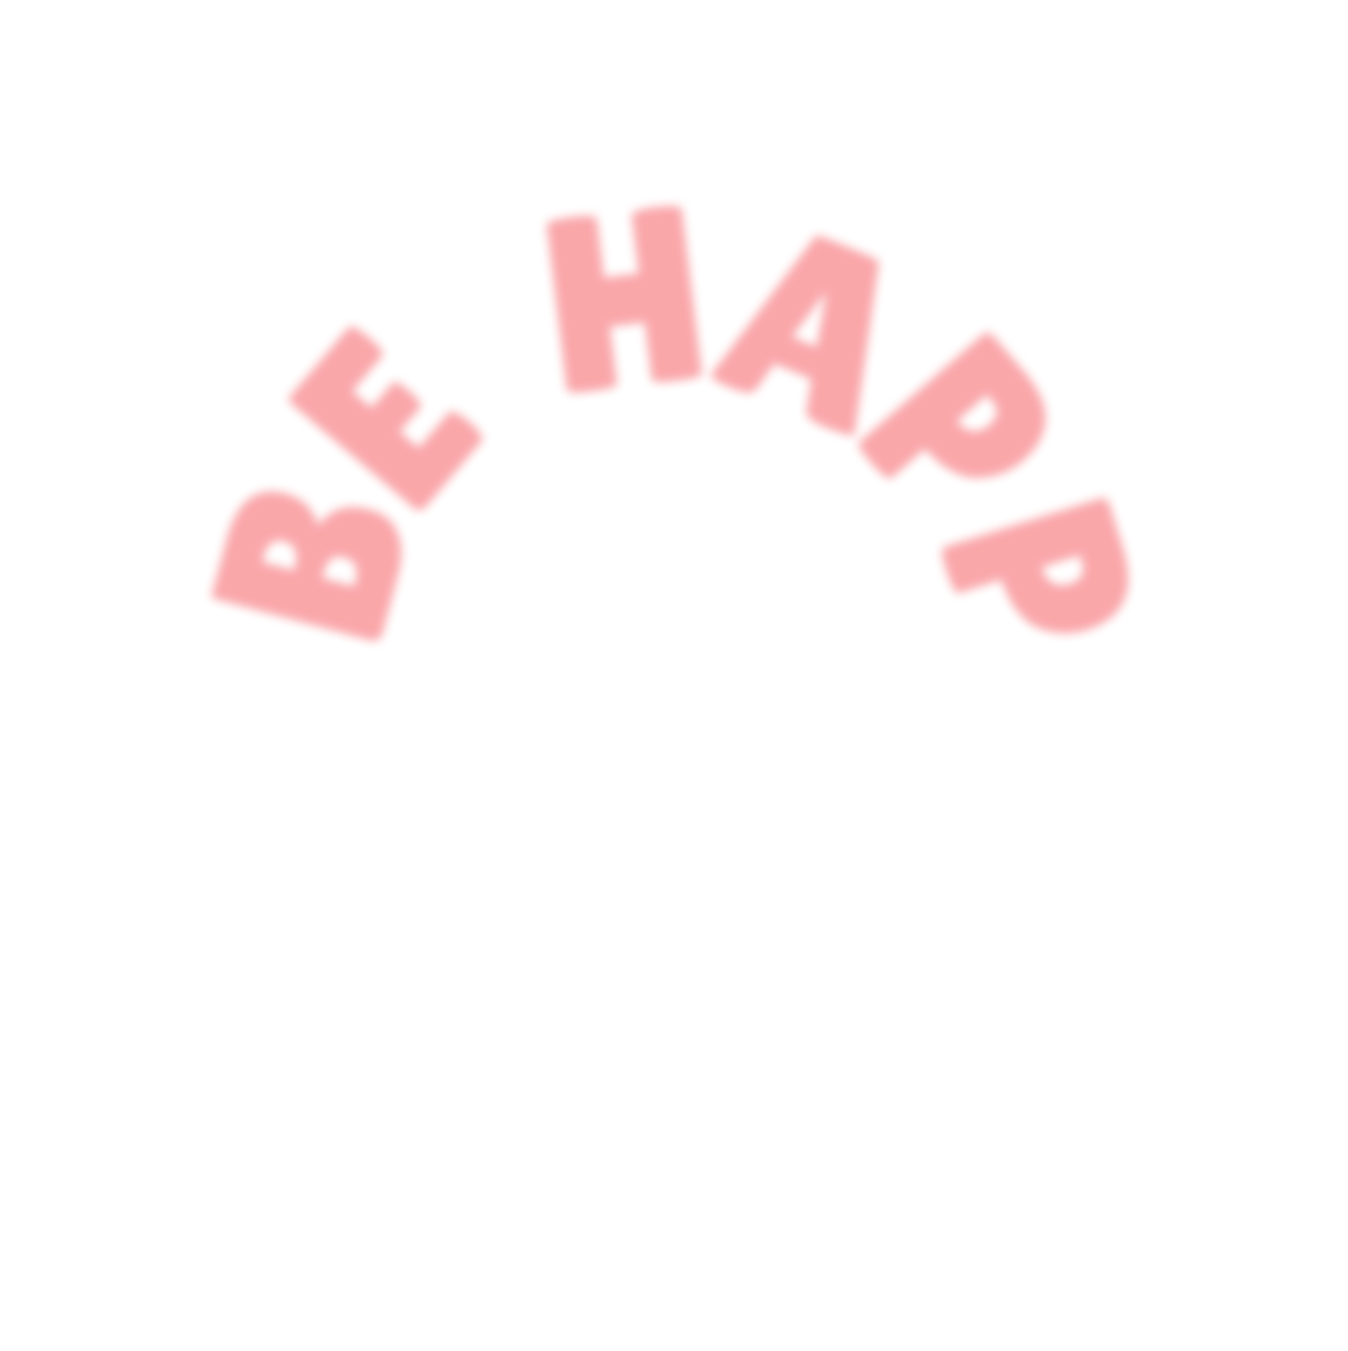
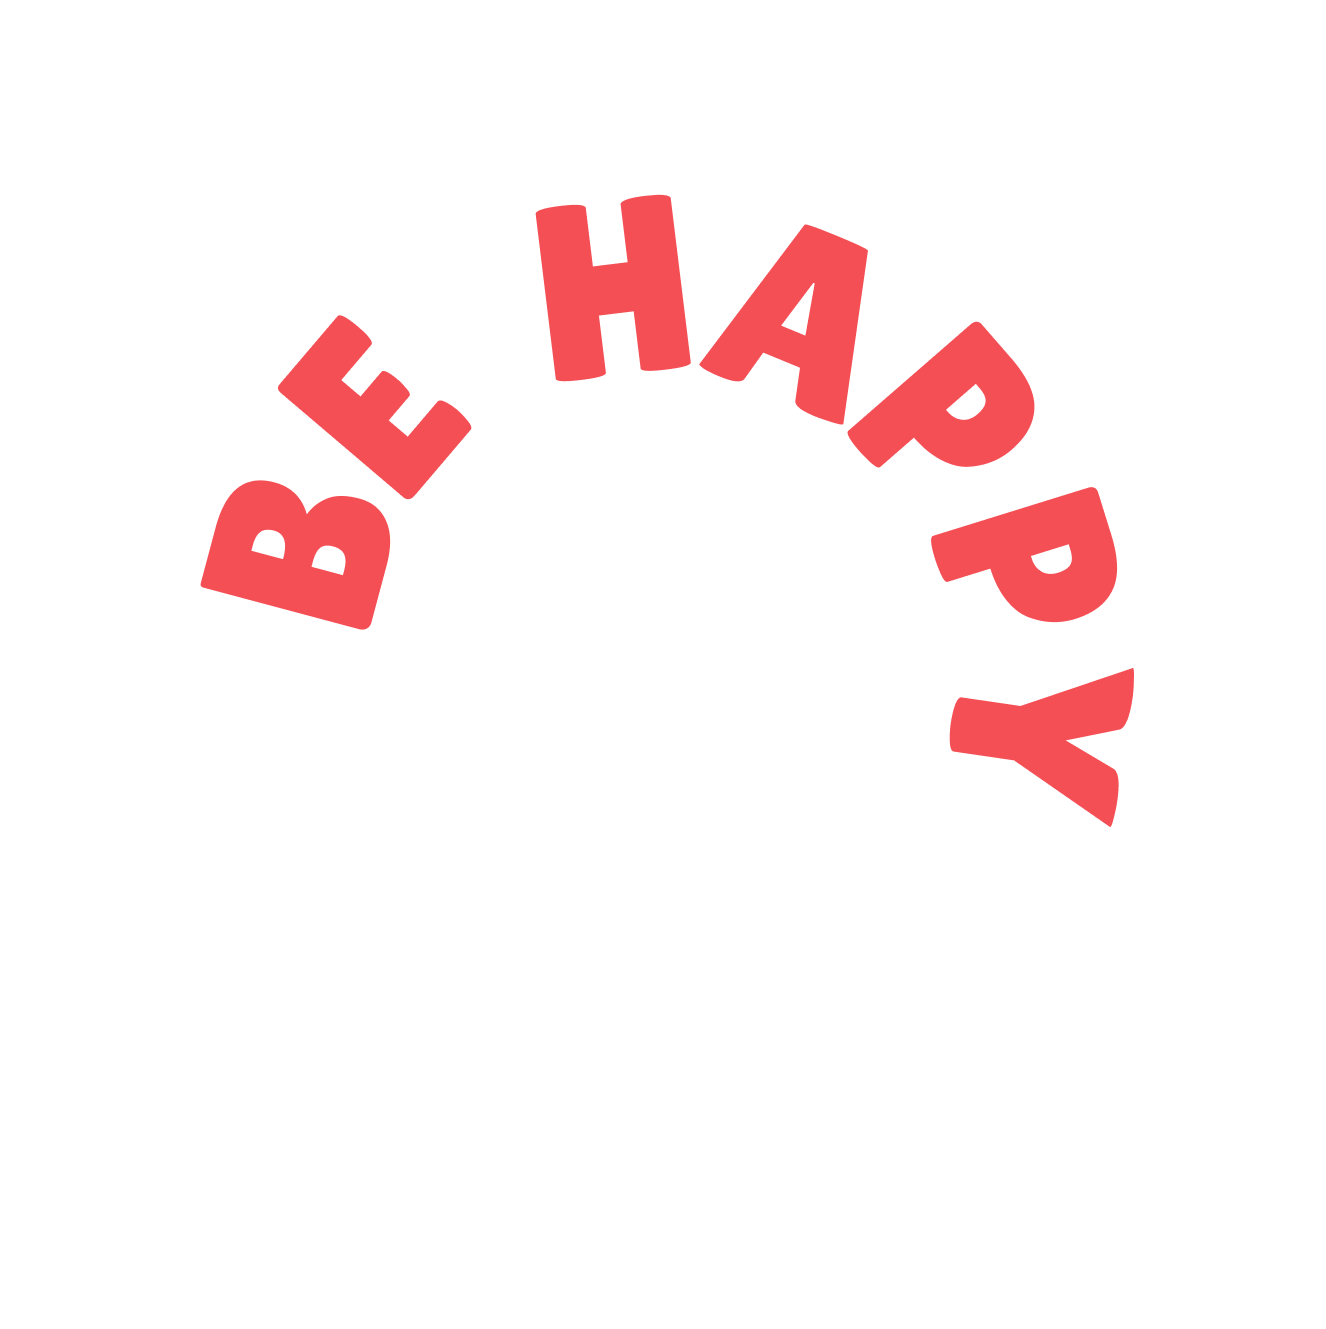
메뉴수정

Changed region(s): [[0.402, 0.1234, 0.8658, 0.4936], [0.1546, 0.216, 0.371, 0.4936], [0.7112, 0.4936, 0.8658, 0.617]]

diff --git a/css/menustyle/style.css b/css/menustyle/style.css
@@ -19,6 +19,13 @@
   font-weight: 700;
   font-display: swap;
 }
+@font-face {
+  font-family: "ChangwonDanggamAsak";
+  src: url("https://cdn.jsdelivr.net/gh/projectnoonnu/noonfonts_2108@1.1/CWDangamAsac-Bold.woff")
+    format("woff");
+  font-weight: normal;
+  font-display: swap;
+}
 
 * {
   margin: 0px;
@@ -122,12 +129,103 @@ a {
     display: block;
   }
 
+  /*visual*/
   .visual {
     width: 100%;
     height: 400px;
-    background: url(../../img/menu_img/메뉴비주얼_메뉴.jpg) no-repeat center;
-    background-size: cover;
+    background-color: #f2591e;
+    position: relative;
   }
+  .visual .left_donut {
+    position: absolute;
+    left: 0px;
+    top: 0px;
+    animation: left_donut 1.5s ease-out 1 forwards;
+  }
+  @keyframes left_donut {
+    0% {
+      transform: translateX(-100%);
+      opacity: 0;
+    }
+    100% {
+      transform: translateX(0);
+      opacity: 1;
+    }
+  }
+
+  .visual .right_donut {
+    position: absolute;
+    right: 0px;
+    top: 0px;
+    animation: right_donut 1.5s ease-out 1 forwards;
+  }
+  @keyframes right_donut {
+    0% {
+      transform: translateX(100%);
+      opacity: 0;
+    }
+    100% {
+      transform: translateX(0%);
+      opacity: 1;
+    }
+  }
+  .visual .center_donut {
+    position: absolute;
+    left: 50%;
+    transform: translate(-50%, -50%);
+    top: 50%;
+    animation-delay: 1s;
+    animation: center_donut_slideup 1.5s ease-out 1 forwards;
+  }
+  @keyframes center_donut_slideup {
+    0% {
+      transform: translate(-50%, 50%);
+      opacity: 0;
+    }
+    100% {
+      transform: translate(-50%, -50%);
+      opacity: 1;
+    }
+  }
+  .visual .center_donut img {
+    width: 100%;
+  }
+  .visual .text_box {
+    position: absolute;
+    width: 40%;
+    height: 200px;
+    background-color: #f2591e;
+    left: 50%;
+    top: 50%;
+    text-align: center;
+    transform: translate(-50%, -50%);
+    display: flex;
+    justify-content: center;
+    align-items: center;
+
+    box-shadow: 5px 5px 8px rgba(0, 0, 0, 0.3);
+    animation-delay: 3s;
+    animation: visual_textbox 0.5s ease-out 1 forwards;
+  }
+  @keyframes visual_textbox {
+    0% {
+      transform: translate(-50%, -40%);
+      opacity: 0;
+    }
+    100% {
+      transform: translate(-50%, -50%);
+      opacity: 1;
+    }
+  }
+  .visual .line {
+    width: 95%;
+    height: 170px;
+    border: 10px dashed #fda186;
+    align-items: center;
+    display: flex;
+    justify-content: center;
+  }
+
   /*best버튼*/
   .button {
     position: absolute;
@@ -168,11 +266,19 @@ a {
     box-shadow: inset 2px 5px 2px rgba(0, 0, 0, 0.3);
     font-family: "Special Gothic", sans-serif;
   }
+  .button li:hover a {
+    display: block;
+    background-color: #c5c0a9;
+    border-radius: 50px;
+    color: #404040;
+    box-shadow: inset 2px 5px 2px rgba(0, 0, 0, 0.3);
+    font-family: "Special Gothic", sans-serif;
+  }
 
   /*section best */
   .best {
     width: 100%;
-    background-color: #e5e0cc;
+    background-color: #fff8e2;
     height: 1000px;
     position: relative;
     margin: 0;
@@ -194,7 +300,7 @@ a {
   }
   .best ul {
     margin: 0px auto;
-    width: 80%;
+    width: 70%;
     padding-top: 200px;
     box-sizing: border-box;
     display: flex;
@@ -244,7 +350,7 @@ a {
   .old-price {
     color: #aaa;
     text-decoration: line-through;
-    font-size: 13px;
+    font-size: 1vw;
   }
 
   .discount {
@@ -254,14 +360,14 @@ a {
   }
 
   .price {
-    font-size: 20px;
+    font-size: 18px;
     font-weight: 700;
     color: #111;
   }
 
   .shipping {
     color: #777;
-    font-size: 13px;
+    font-size: 0.7vw;
     margin-left: 4px;
   }
 
@@ -549,7 +655,7 @@ a {
     padding-top: 150px;
     box-sizing: border-box;
     width: 100%;
-    background-color: #e5e0cc;
+    background-color: #fff8e2;
     height: 1700px;
     position: relative;
     overflow: hidden;
@@ -826,7 +932,7 @@ a {
     top: 350px;
     left: 50%;
     transform: translateX(-50%);
-    width: 60%;
+    width: 90%;
     height: 100px;
     background-color: #e5e0cc;
     border-radius: 50px;
@@ -860,7 +966,14 @@ a {
     box-shadow: inset 2px 5px 2px rgba(0, 0, 0, 0.3);
     font-family: "Special Gothic", sans-serif;
   }
-
+  .button li:hover a {
+    display: block;
+    background-color: #c5c0a9;
+    border-radius: 50px;
+    color: #404040;
+    box-shadow: inset 2px 5px 2px rgba(0, 0, 0, 0.3);
+    font-family: "Special Gothic", sans-serif;
+  }
   /*section best */
   .best {
     width: 100%;
@@ -886,11 +999,11 @@ a {
   }
   .best ul {
     margin: 0px auto;
-    width: 1300px;
+    width: 90%;
     padding-top: 200px;
     box-sizing: border-box;
     display: flex;
-    gap: 40px;
+    gap: 20px;
   }
 
   .best li:hover {
@@ -927,9 +1040,8 @@ a {
 
   /* 가격 */
   .price-box {
-    display: flex;
     align-items: baseline;
-    gap: 6px;
+
     margin-bottom: 6px;
   }
 
@@ -980,7 +1092,7 @@ a {
     top: 1350px;
     left: 50%;
     transform: translateX(-50%);
-    width: 60%;
+    width: 90%;
     height: 100px;
     background-color: #e5e0cc;
     border-radius: 50px;
@@ -1202,7 +1314,7 @@ a {
     top: 2400px;
     left: 50%;
     transform: translateX(-50%);
-    width: 60%;
+    width: 90%;
     height: 100px;
     background-color: #e5e0cc;
     border-radius: 50px;
@@ -1241,7 +1353,7 @@ a {
     padding-top: 150px;
     box-sizing: border-box;
     width: 100%;
-    background-color: #e5e0cc;
+    background-color: #fff8e2;
     height: 1700px;
     position: relative;
     overflow: hidden;
@@ -1547,7 +1659,14 @@ a {
     box-shadow: inset 2px 5px 2px rgba(0, 0, 0, 0.3);
     font-family: "Special Gothic", sans-serif;
   }
-
+  .button li:hover a {
+    display: block;
+    background-color: #c5c0a9;
+    border-radius: 50px;
+    color: #404040;
+    box-shadow: inset 2px 5px 2px rgba(0, 0, 0, 0.3);
+    font-family: "Special Gothic", sans-serif;
+  }
   /*section best */
   .best {
     width: 100%;
@@ -1928,7 +2047,7 @@ a {
     padding-top: 150px;
     box-sizing: border-box;
     width: 100%;
-    background-color: #e5e0cc;
+    background-color: #fff8e2;
     height: 1700px;
     position: relative;
     overflow: hidden;

diff --git a/menu.html b/menu.html
@@ -27,7 +27,9 @@
     <div id="wrap">
       <header>
         <h1>
-          <a href="#"><img src="img/menu_img/logo_bk.png" alt="" /></a>
+          <a href="http://127.0.0.1:5500/menu.html#"
+            ><img src="img/menu_img/logo_bk.png" alt=""
+          /></a>
         </h1>
         <nav>
           <ul class="menuBar">
@@ -63,7 +65,20 @@
           </ul>
         </nav>
       </header>
-      <div class="visual"></div>
+      <div class="visual">
+        <div class="left_donut"><img src="img/menu_img/left.png" alt="" /></div>
+        <div class="right_donut">
+          <img src="img/menu_img/right.png" alt="" />
+        </div>
+        <div class="center_donut">
+          <img src="img/menu_img/center.png" alt="" />
+        </div>
+        <div class="text_box">
+          <div class="line">
+            <img src="img/menu_img/MENU_visual.png" alt="" />
+          </div>
+        </div>
+      </div>
       <ul class="menu button">
         <li class="on"><a href="#best">BEST</a></li>
         <li><a href="#donut">DONUT</a></li>
@@ -84,8 +99,8 @@
                 </div>
 
                 <div class="price-box">
-                  <span class="price">23,300원</span>
-                  <span class="shipping">배송비 3,500원</span>
+                  <div class="price">23,300원</div>
+                  <div class="shipping">배송비 3,500원</div>
                 </div>
 
                 <div class="review-box">
